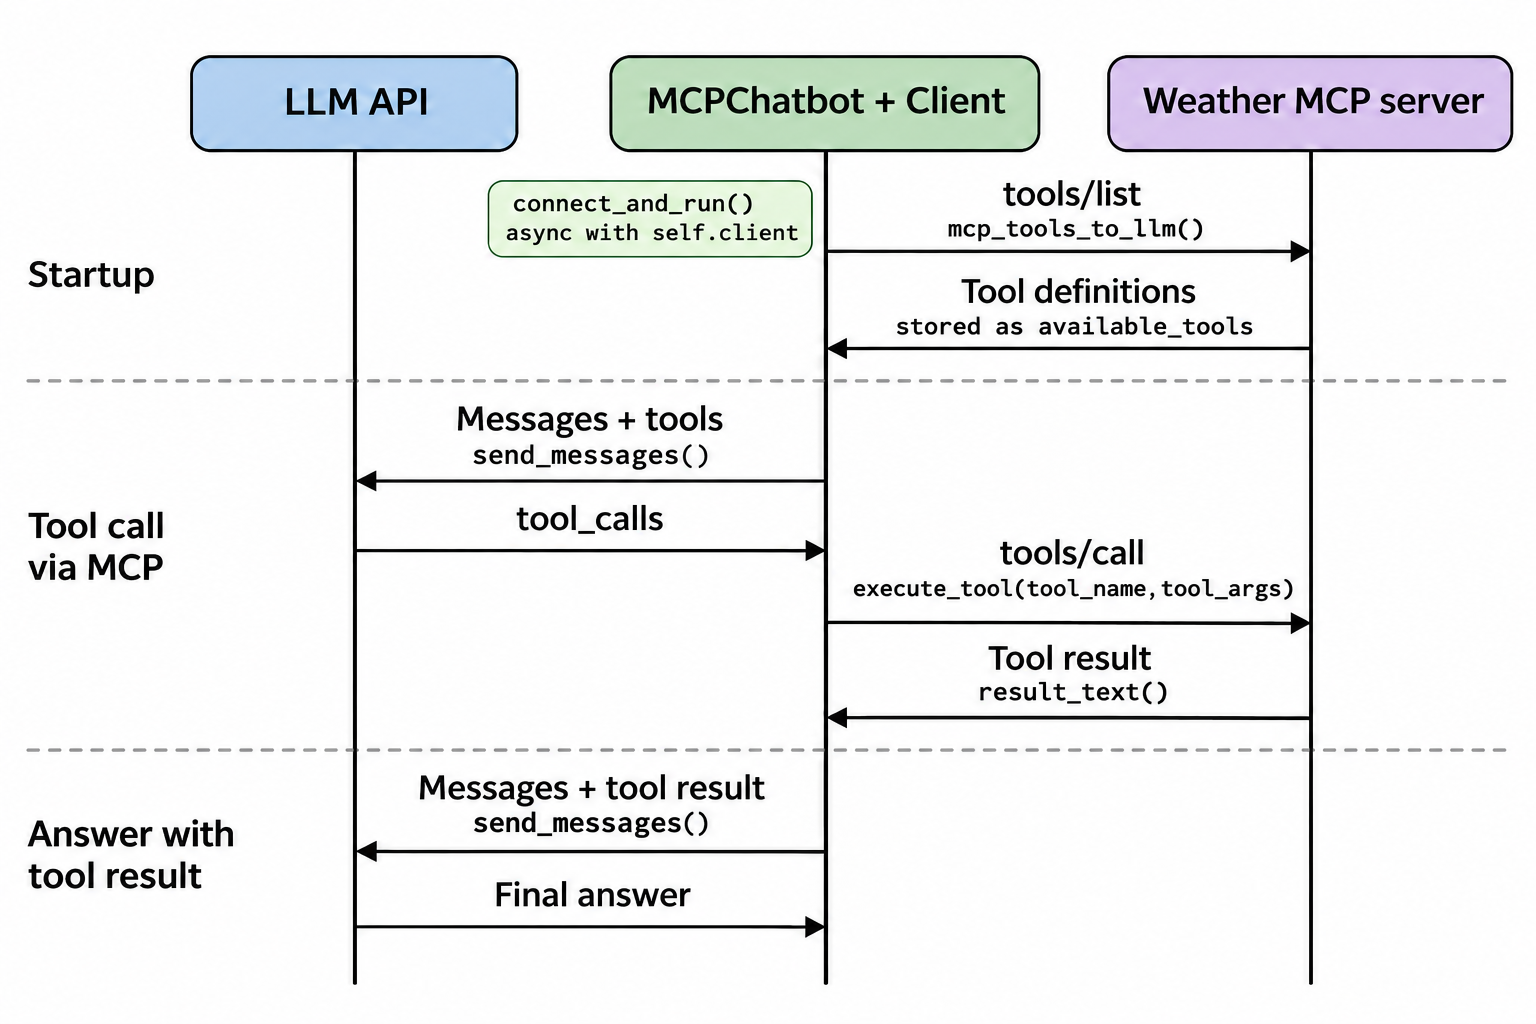
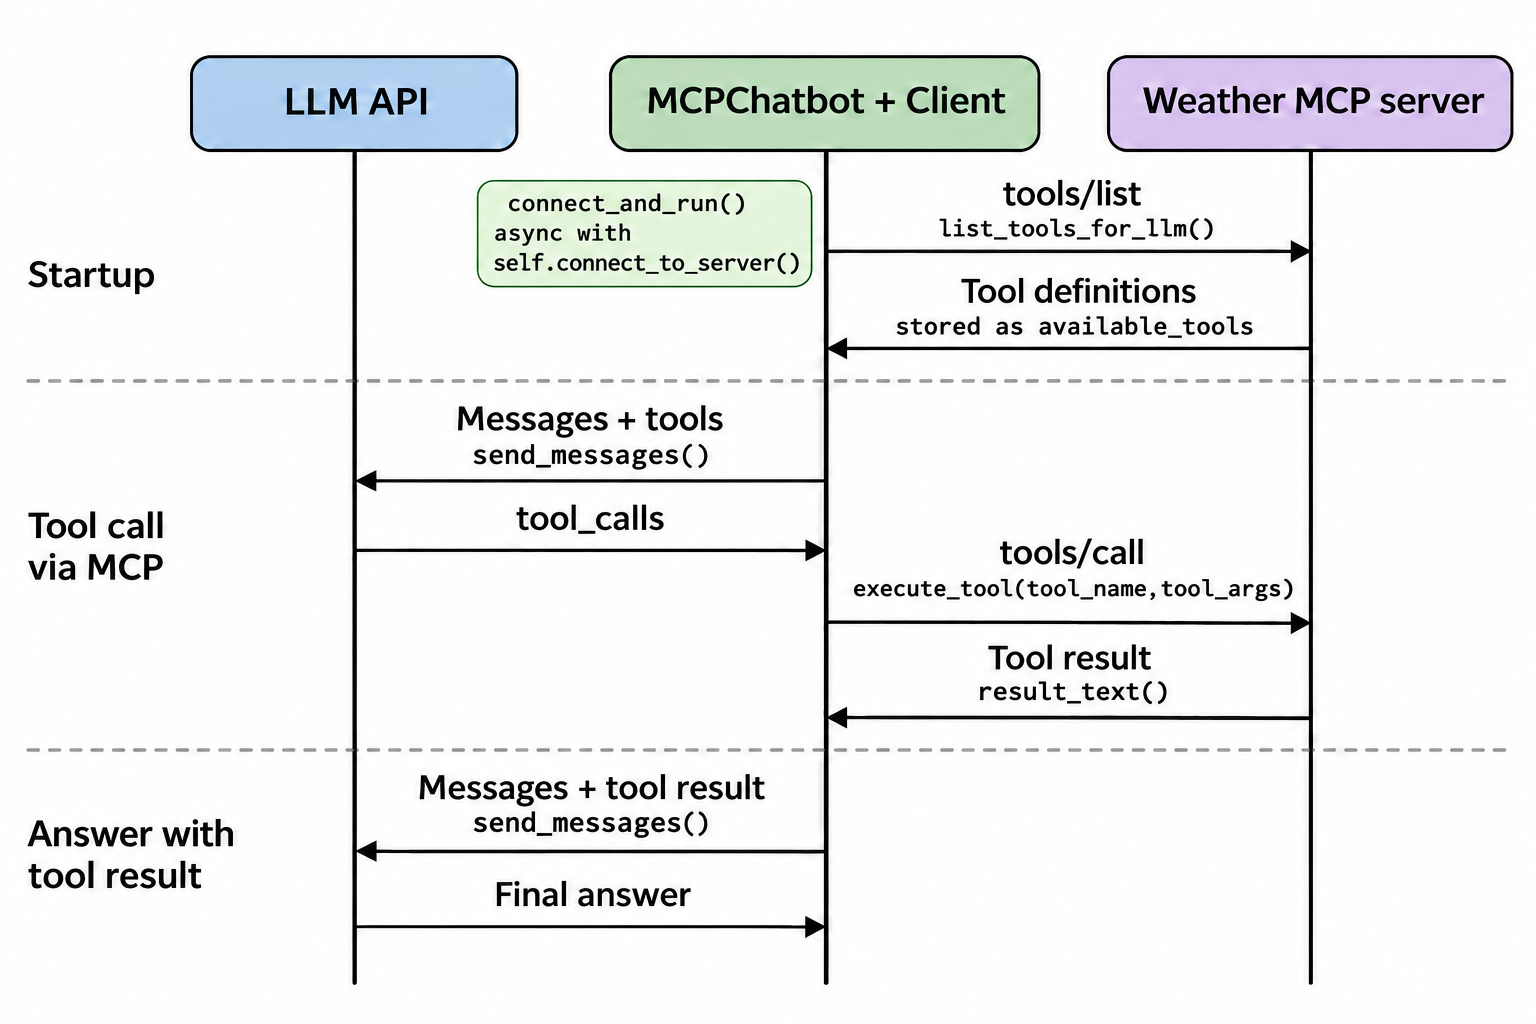
feat: support Gemini and OpenRouter in the Session 5 chatbot
- Share provider settings between the weather and multi-tool chatbots.
- Extract single-server connection handling and rename the tool discovery method and conversation state.
- Update the notebook and sequence diagram, explain resource and prompt access, and fix the Sessions 3–4 links.

Modified files:

- 05-Introduction-to-MCP/Session 5 Introduction to MCP.ipynb
- 05-Introduction-to-MCP/images/mcp-client-message-flow.png
- 05-Introduction-to-MCP/practice/mcp_chatbot.py
- 05-Introduction-to-MCP/practice/mcp_multi_tool_chatbot.py

diff --git a/05-Introduction-to-MCP/practice/mcp_chatbot.py b/05-Introduction-to-MCP/practice/mcp_chatbot.py
@@ -4,15 +4,25 @@ import argparse
 import asyncio
 import json
 import sys
+from contextlib import asynccontextmanager
 
 import requests
 from fastmcp import Client
 from fastmcp.client.transports import StdioTransport
 
 SERVER_URL = "http://127.0.0.1:8000/mcp"
-CHAT_URL = "https://openrouter.ai/api/v1/chat/completions"
-CHAT_API_KEY = "YOUR_LLM_API_KEY"  # Enter your LLM provider's API key.
-CHAT_MODEL = "YOUR_MODEL_ID"  # Select a model that supports tool calls.
+LLM_PROVIDER = "gemini"  # Choose "gemini" or "openrouter".
+
+if LLM_PROVIDER == "gemini":
+    CHAT_URL = "https://generativelanguage.googleapis.com/v1beta/openai/chat/completions"
+    CHAT_API_KEY = "YOUR_GEMINI_API_KEY"
+    CHAT_MODEL = "gemini-3.6-flash"
+elif LLM_PROVIDER == "openrouter":
+    CHAT_URL = "https://openrouter.ai/api/v1/chat/completions"
+    CHAT_API_KEY = "YOUR_OPENROUTER_API_KEY"
+    CHAT_MODEL = "openrouter/free"  # Selects a free model that supports the request.
+else:
+    raise ValueError('Choose "gemini" or "openrouter" for LLM_PROVIDER.')
 
 def tool_schema(tool):
     """Read the input schema exposed by the installed MCP SDK."""
@@ -59,7 +69,7 @@ class MCPChatbot:
         )
         self.client = Client(server)
         self.available_tools = []
-        self.messages = [{"role": "system", "content": system_prompt or (
+        self.conversation = [{"role": "system", "content": system_prompt or (
             "You are a weather assistant. Use Australian English. "
             "Do not invent weather data. Ask for a city when it is missing."
         )}]
@@ -78,8 +88,8 @@ class MCPChatbot:
         if not self.api_url.startswith(("https://", "http://")):
             raise ValueError("CHAT_URL must be an HTTP or HTTPS API endpoint.")
 
-    async def mcp_tools_to_llm(self):
-        """Convert discovered MCP tools to the LLM's function declaration format."""
+    async def list_tools_for_llm(self):
+        """List MCP tools and convert them to the LLM's function format."""
         tools = await self.client.list_tools()
         return [
             {"type": "function", "function": {
@@ -98,15 +108,21 @@ class MCPChatbot:
         result = await self.client.call_tool(tool_name, tool_args)
         return result_text(result)
 
-    async def connect_and_run(self):
-        """Discover tools once and keep the MCP connection open for the chat."""
-        self.validate_settings()
+    @asynccontextmanager
+    async def connect_to_server(self):
+        """Open the configured MCP client and discover its tools."""
         async with self.client:
-            self.available_tools = await self.mcp_tools_to_llm()
+            self.available_tools = await self.list_tools_for_llm()
             tool_names = {tool["function"]["name"] for tool in self.available_tools}
             if not tool_names:
                 raise ValueError("The server did not publish any tools.")
             print("Connected to server with tools:", sorted(tool_names))
+            yield  # Keep the client open until the caller leaves this context.
+
+    async def connect_and_run(self):
+        """Validate settings and run the chat while the MCP client is open."""
+        self.validate_settings()
+        async with self.connect_to_server():
             await self.chat_loop()
 
     def send_messages(self, messages):
@@ -157,7 +173,7 @@ class MCPChatbot:
 
     async def chat(self, user_message: str) -> str:
         """Complete a chat turn, running requested tools through MCP."""
-        pending = self.messages + [{"role": "user", "content": user_message}]
+        pending = self.conversation + [{"role": "user", "content": user_message}]
         while True:
             # Keep the MCP event loop responsive while requests reads the LLM stream.
             response = await asyncio.to_thread(self.send_messages, pending)
@@ -175,7 +191,7 @@ class MCPChatbot:
                     "content": result,  # Return the MCP text to the LLM.
                 })
 
-        self.messages = pending  # Save the complete turn after the requests succeed.
+        self.conversation = pending  # Save the complete turn after the requests succeed.
         return response["content"]
 
     async def chat_loop(self):

diff --git a/05-Introduction-to-MCP/practice/mcp_multi_tool_chatbot.py b/05-Introduction-to-MCP/practice/mcp_multi_tool_chatbot.py
@@ -6,11 +6,6 @@ from datetime import date
 
 from mcp_chatbot import MCPChatbot
 
-CHAT_URL = "https://openrouter.ai/api/v1/chat/completions"
-CHAT_API_KEY = "YOUR_LLM_API_KEY"  # Enter your LLM provider's API key.
-CHAT_MODEL = "YOUR_MODEL_ID"  # Select a model that supports tool calls.
-
-
 class MultiToolChatbot(MCPChatbot):
     """Reuse the chatbot with four tools over HTTP or stdio."""
 
@@ -19,9 +14,6 @@ class MultiToolChatbot(MCPChatbot):
             transport=transport,
             server_url="http://127.0.0.1:8001/mcp",
             server_script="multi_tool_mcp_server.py",
-            api_url=CHAT_URL,
-            api_key=CHAT_API_KEY,
-            model=CHAT_MODEL,
             system_prompt=(
                 "You are a helpful weather and research assistant. Use Australian English. "
                 "Ask for missing cities, dates or topics. Do not invent observations or paper references. "
